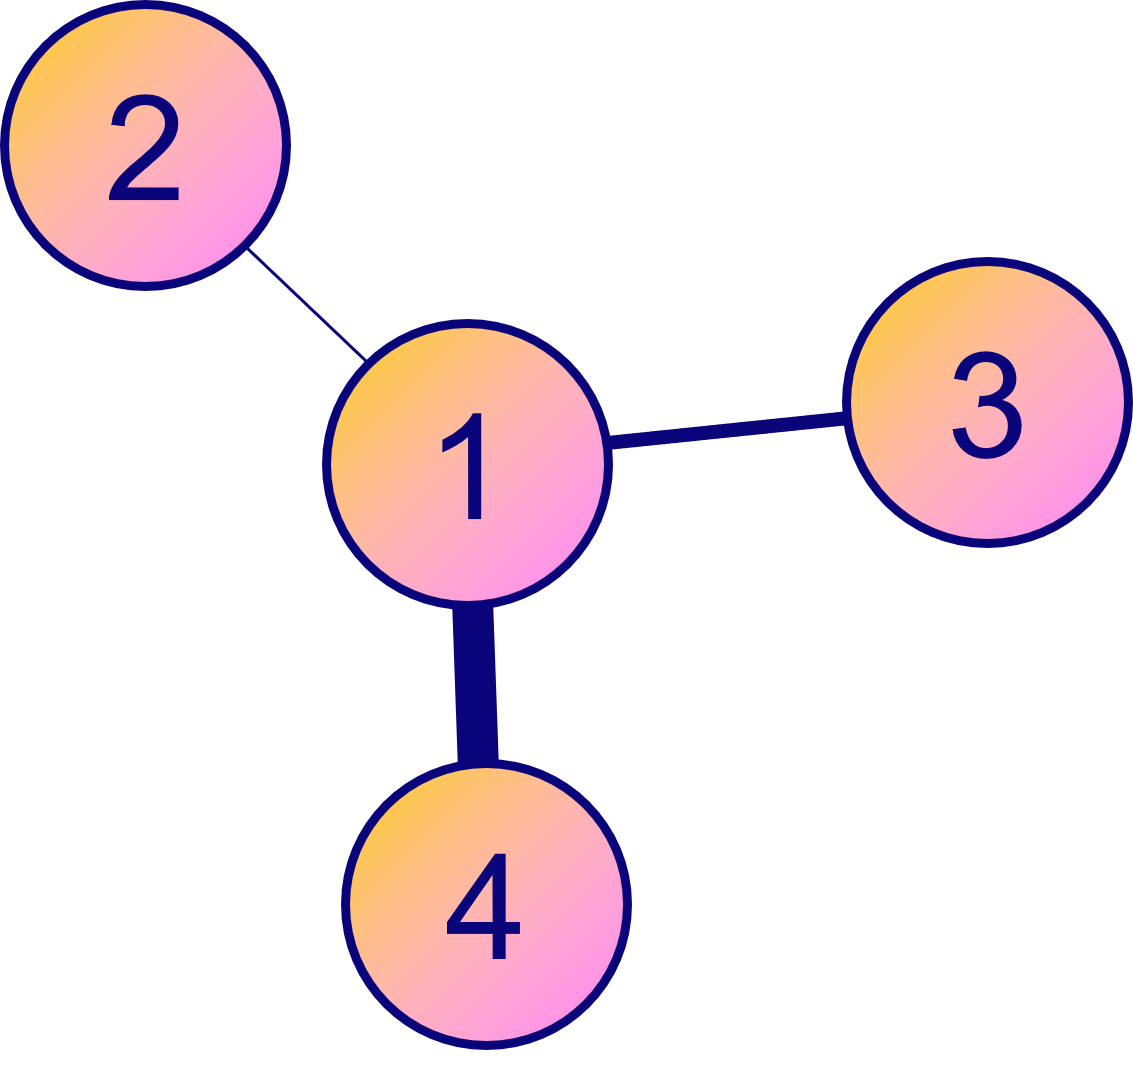
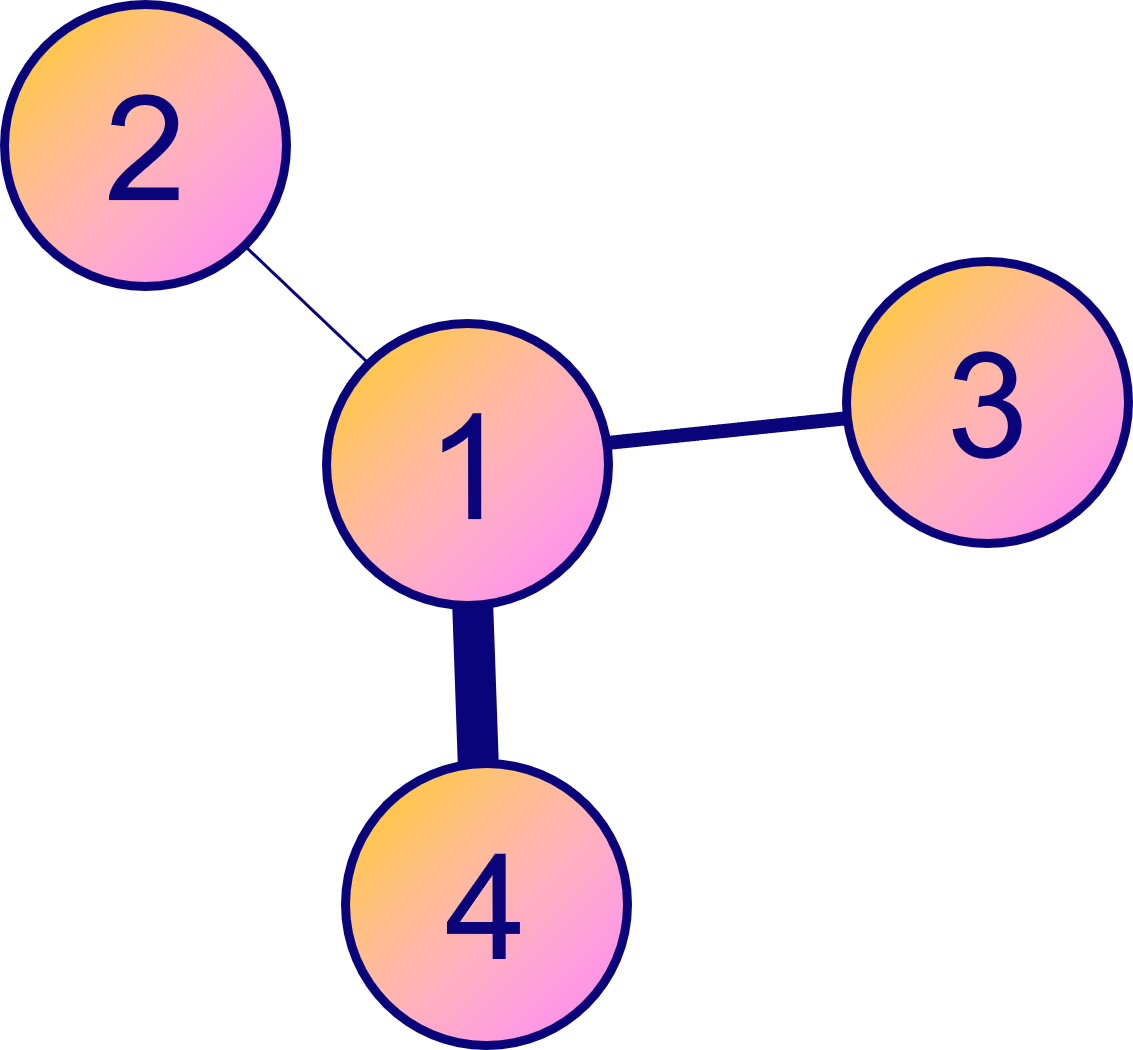
colab update

diff --git a/_sass/minima/custom-styles.scss b/_sass/minima/custom-styles.scss
@@ -14,10 +14,10 @@ body {
 }
 
 .post-content h1 {
-    font-size: 35px !important;
+    font-size: 36px !important;
 }
 .post-content h2 {
-    font-size: 28px !important;
+    font-size: 36px !important;
 }
 
 
@@ -86,15 +86,6 @@ hr {
     height: 1px !important;
     background-image: linear-gradient(to right, rgba(0, 0, 0, 0), rgba(0, 0, 0, 0.75), rgba(0, 0, 0, 0)) !important;
 }
-.post-content h2:before {
-    content: ' ';
-    display: block;
-    margin-bottom: 2.5rem;
-    margin-top: 3rem;
-    border: 0;
-    height: 1px;
-    background-image: linear-gradient(to right, rgba(0, 0, 0, 0), rgba(0, 0, 0, 0.75), rgba(0, 0, 0, 0));
-}
 .utterances:before {
     content: ' ';
     display: block;
@@ -142,8 +133,8 @@ blockquote {
     display: block;
     margin-left: auto;
     margin-right: auto;
-    margin-bottom: 3.5rem;
-    margin-top: 3.5rem;
+    margin-bottom: 3rem;
+    margin-top: 3rem;
     max-width: 100%;
 }
 
@@ -172,6 +163,8 @@ table {
     font-size: 110% !important;
     font-family: Menlo, Monaco, Consolas, "Lucida Console", Roboto, Ubuntu, monospace;
     box-shadow: 8px 8px 8px 0px #888;
+    margin-top: 3rem;
+    margin-bottom: 3rem;
 
     th {
         background-color: inherit !important;

diff --git a/_layouts/post.html b/_layouts/post.html
@@ -32,6 +32,9 @@ layout: default
         {% endfor %}
       {%- endif %}
        • {% include reading_time.html -%}
+      {%- if page.colab -%}
+       • <a href= {{ page.colab }} target="_blank"> <img class="notebook-badge-image" src="/blog/assets/badges/colab.svg" alt="Open In Colab"></a>
+      {%- endif %}
     </p>
 
     {% if page.categories.size > 0 and site.show_tags %}
@@ -43,7 +46,7 @@ layout: default
       </p>
     {% endif %}
 
-    {% if page.layout == 'notebook' %}
+    <!-- {% if page.layout == 'notebook' %}
       {% if page.badges or page.badges == nil %}
         <div class="badges">
           <div class="runthecode">
@@ -57,7 +60,7 @@ layout: default
           </div>
         </div>
       {% endif -%}
-    {% endif -%}
+    {% endif -%} -->
   </header>
 
   <div class="post-content e-content" itemprop="articleBody">
